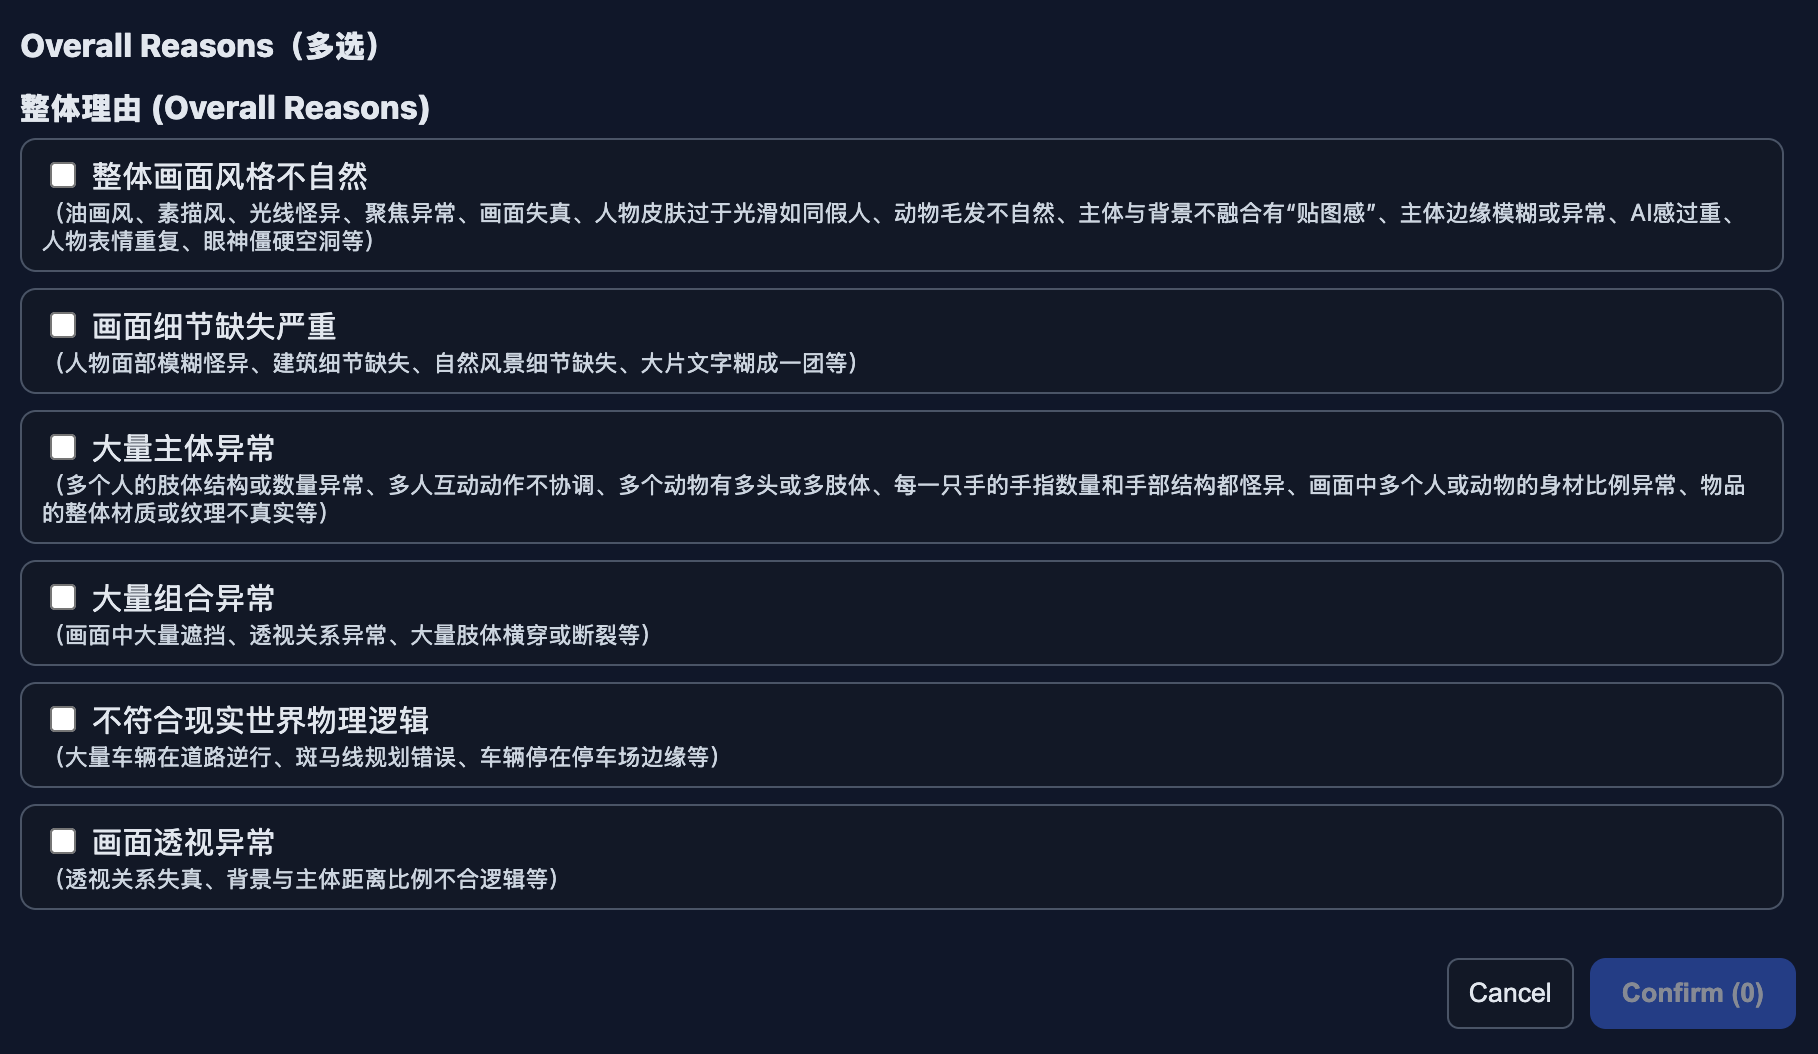
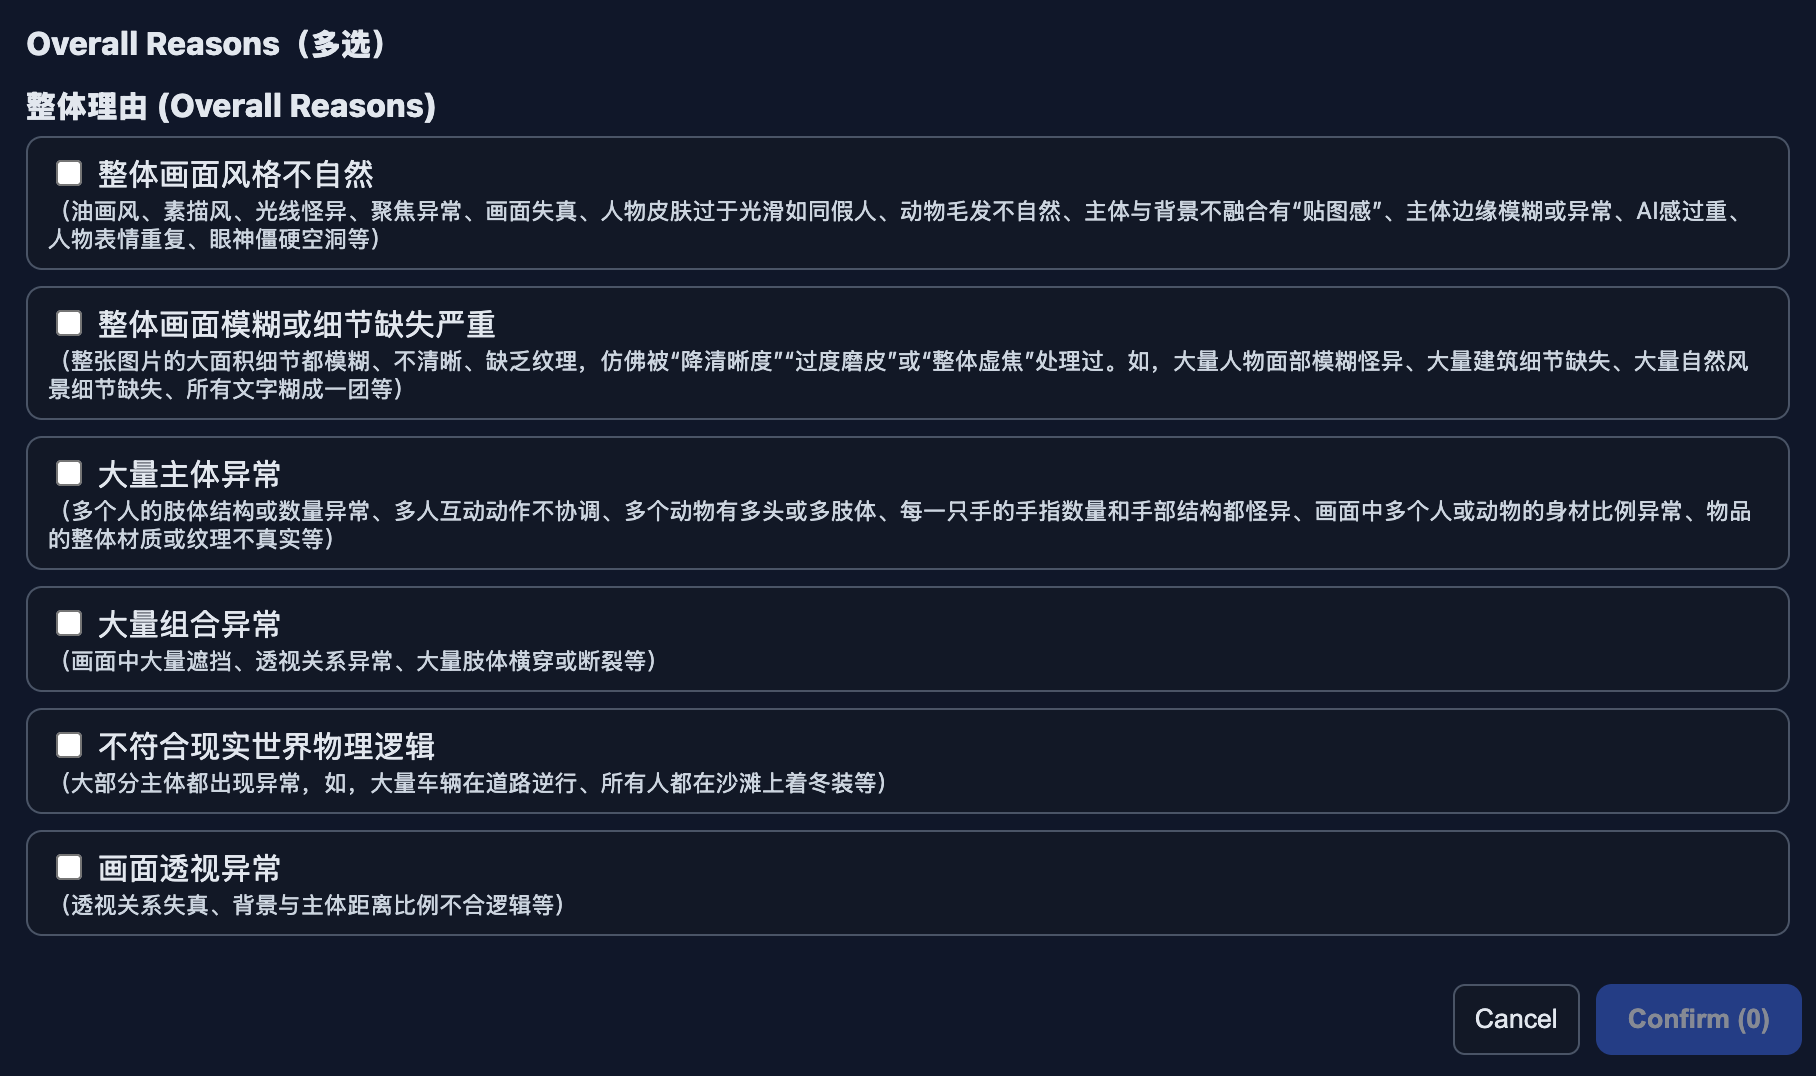
refine the introduction and the reasons

Changed region(s): [[0.0, 0.0304, 0.9868, 0.8805], [0.8018, 0.9108, 1.0, 1.0]]

diff --git a/src/pages/Introduction.jsx b/src/pages/Introduction.jsx
@@ -41,7 +41,7 @@ export default function Introduction() {
               </p>
 
               <p style={styles.text}>
-                在阅读完本页内容后，您会进入 Practice 练习环节，我们将为您提供 11 道练习题让您对实验更加熟悉。
+                在阅读完本页内容后，您会进入 Practice 练习环节（页面如下图所示），我们将为您提供 11 道练习题让您对实验更加熟悉。
                 （Practice 环节只用完成一次，一旦完成，重新登陆账号时您会直接跳转到 Menu 页面）。
               </p>
               <img
@@ -52,7 +52,7 @@ export default function Introduction() {
               />
 
               <p style={styles.text}>
-                之后您会进入到 Menu 页面，在该页面您会看到您需要完成的四个批次（Batch1、Batch2、Batch3、Batch4）的题目对应的进度及批次入口。
+                之后您会进入到 Menu 页面（如下图所示），在该页面您会看到您需要完成的四个批次（Batch1、Batch2、Batch3、Batch4）的题目对应的进度及批次入口。
                 批次的设计允许您进行适当的休息，每次回到未完成的批次时，您都将从最新进展继续下去。
               </p>
               <img
@@ -63,7 +63,7 @@ export default function Introduction() {
               />
 
               <p style={styles.text}>
-                进入批次后您将正式开始实验（即 Experiment 页面）。后续页面中我们会对实验界面进行更详细的说明。
+                进入批次后您将正式开始实验（即 Experiment 页面，如下图所示）。后续页面中我们会对实验界面进行更详细的说明。
               </p>
               <img
                 src="/experiment.png"
@@ -73,7 +73,7 @@ export default function Introduction() {
               />
 
               <p style={styles.text}>
-                每次退出或完成某个批次后，您都会进入 Result 页面。那里将显示您的整体做题进度，以及返回 Menu 页面的按钮。
+                每次退出或完成某个批次后，您都会进入 Result 页面（如下图所示）。那里将显示您的整体做题进度，以及返回 Menu 页面的按钮。
                 每完成一个批次返回菜单开启下一个即可。
               </p>
               <img
@@ -206,7 +206,7 @@ export default function Introduction() {
               </p>
 
               <p style={styles.text}>
-                总体来说，请尽量通过点击反馈尽可能详细的破绽（比如，图片中有 4 个人，尽管每个人的人脸都有一些问题，也是可“拯救”的，请通过点击反馈细节理由；但如果图片中有十多个人，每个人的人脸都几乎不完整了，想要点击时根本无从下手，就可以“放弃”它们，只反馈整体理由即可）。
+                总体来说，请尽量通过点击反馈尽可能详细的破绽（比如，图片中有 4 个人，尽管每个人的人脸都有一些问题，也是可“拯救”的，请通过点击反馈细节理由；但如果图片中有十多个人，每个人的人脸都几乎不完整了，想要点击时根本无从下手，就可以“放弃”它们，只反馈整体理由即可），您的点击数量没有任何限制。
               </p>
 
               <p style={styles.text}>

diff --git a/src/pages/Experiment.jsx b/src/pages/Experiment.jsx
@@ -16,8 +16,8 @@ const OVERALL_GROUPS = [
       },
       {
         key: 'detail_missing',
-        label: '画面细节缺失严重',
-        example: '人物面部模糊怪异、建筑细节缺失、自然风景细节缺失、大片文字糊成一团等'
+        label: '整体画面模糊或细节缺失严重',
+        example: '整张图片的大面积细节都模糊、不清晰、缺乏纹理，仿佛被“降清晰度”“过度磨皮”或“整体虚焦”处理过。如，大量人物面部模糊怪异、大量建筑细节缺失、大量自然风景细节缺失、所有文字糊成一团等'
       },
       {
         key: 'many_subject_abnormal',
@@ -32,7 +32,7 @@ const OVERALL_GROUPS = [
       {
         key: 'physics_illogical',
         label: '不符合现实世界物理逻辑',
-        example: '大量车辆在道路逆行、斑马线规划错误、车辆停在停车场边缘等'
+        example: '大部分主体都出现异常，如，大量车辆在道路逆行、所有人都在沙滩上着冬装等'
       },
       {
         key: 'perspective_abnormal',
@@ -144,8 +144,8 @@ const FLAW_GROUPS = [
       },
       {
         key: 'blur_detail',
-        label: '模糊或细节缺失',
-        example: '文字/图案模糊不清、眼部细节缺失、牙齿模糊不清、耳朵内部结构模糊不清、霓虹灯模糊一片等',
+        label: '部分画面模糊或细节缺失',
+        example: '只有某一个局部区域缺乏细节，而其他区域正常清晰。属于“局部问题”，不是整张图的问题。如，部分文字/图案模糊不清、面部整体清晰但眼部细节缺失、面部整体清晰但牙齿模糊不清、城市场景其余部分清晰但霓虹灯模糊一片等',
       },
       {
         key: 'odd_structures',
@@ -159,7 +159,7 @@ const FLAW_GROUPS = [
       {
         key: 'physics_logic',
         label: '不符合现实世界物理逻辑',
-        example: '生肉和熟食混在一起、人在沙滩上穿羽绒服戴围巾',
+        example: '部分主体出现怪异情况，如在大部分人都着泳装的沙滩边有一个或几个人穿羽绒服戴围巾',
       },
       { key: 'text_abnormal', label: '文字异常', example: '文字表意错误、毫无逻辑、文字显示不完整、字体异常等' },
       {

diff --git a/src/pages/Practice.jsx b/src/pages/Practice.jsx
@@ -16,8 +16,8 @@ const OVERALL_GROUPS = [
       },
       {
         key: 'detail_missing',
-        label: '画面细节缺失严重',
-        example: '人物面部模糊怪异、建筑细节缺失、自然风景细节缺失、大片文字糊成一团等'
+        label: '整体画面模糊或细节缺失严重',
+        example: '整张图片的大面积细节都模糊、不清晰、缺乏纹理，仿佛被“降清晰度”“过度磨皮”或“整体虚焦”处理过。如，大量人物面部模糊怪异、大量建筑细节缺失、大量自然风景细节缺失、所有文字糊成一团等'
       },
       {
         key: 'many_subject_abnormal',
@@ -32,7 +32,7 @@ const OVERALL_GROUPS = [
       {
         key: 'physics_illogical',
         label: '不符合现实世界物理逻辑',
-        example: '大量车辆在道路逆行、斑马线规划错误、车辆停在停车场边缘等'
+        example: '大部分主体都出现异常，如，大量车辆在道路逆行、所有人都在沙滩上着冬装等'
       },
       {
         key: 'perspective_abnormal',
@@ -140,8 +140,8 @@ const FLAW_GROUPS = [
       },
       {
         key: 'blur_detail',
-        label: '模糊或细节缺失',
-        example: '文字/图案模糊不清、眼部细节缺失、牙齿模糊不清、耳朵内部结构模糊不清、霓虹灯模糊一片等',
+        label: '部分画面模糊或细节缺失',
+        example: '只有某一个局部区域缺乏细节，而其他区域正常清晰。属于“局部问题”，不是整张图的问题。如，部分文字/图案模糊不清、面部整体清晰但眼部细节缺失、面部整体清晰但牙齿模糊不清、城市场景其余部分清晰但霓虹灯模糊一片等',
       },
       {
         key: 'odd_structures',
@@ -155,7 +155,7 @@ const FLAW_GROUPS = [
       {
         key: 'physics_logic',
         label: '不符合现实世界物理逻辑',
-        example: '生肉和熟食混在一起、人在沙滩上穿羽绒服戴围巾',
+        example: '部分主体出现怪异情况，如在大部分人都着泳装的沙滩边有一个或几个人穿羽绒服戴围巾',
       },
       { key: 'text_abnormal', label: '文字异常', example: '文字表意错误、毫无逻辑、文字显示不完整、字体异常等' },
       {
